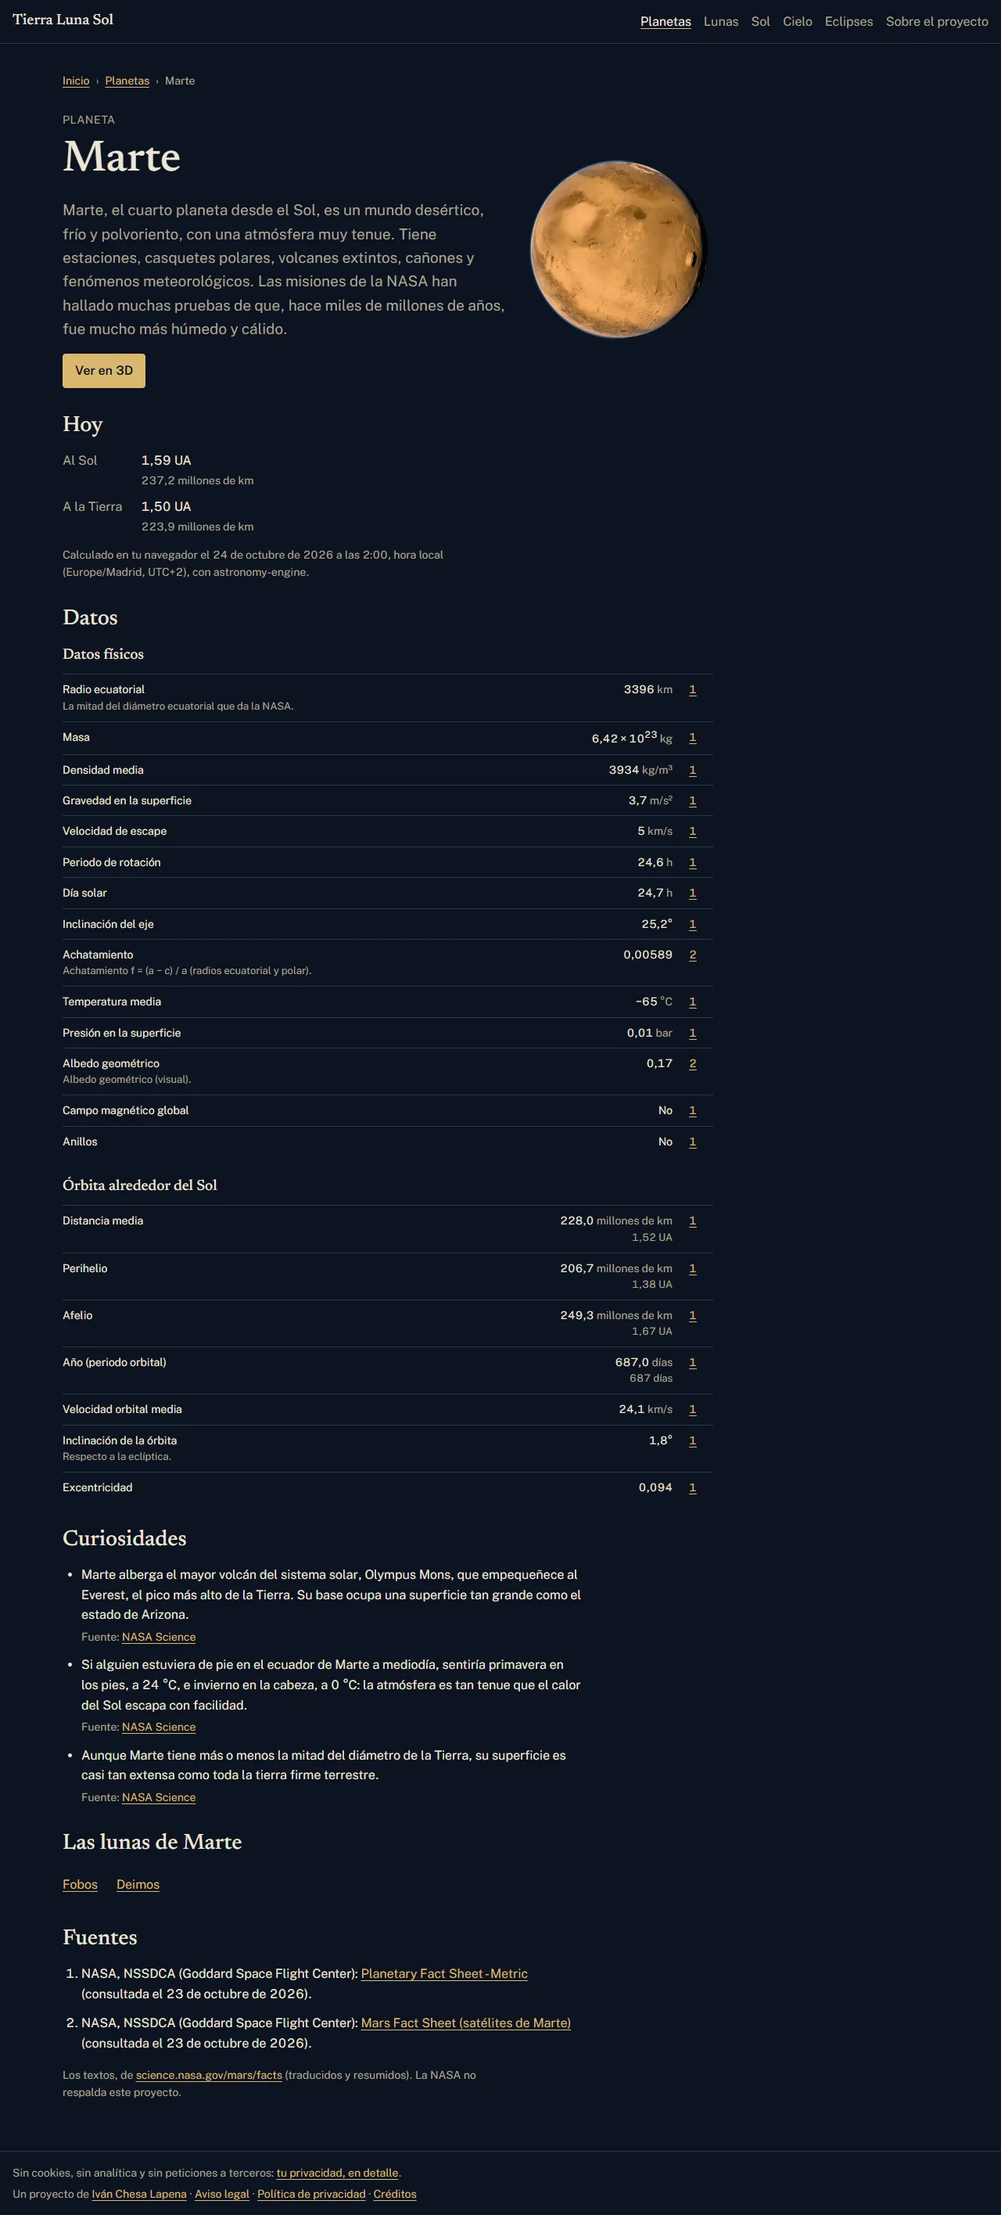
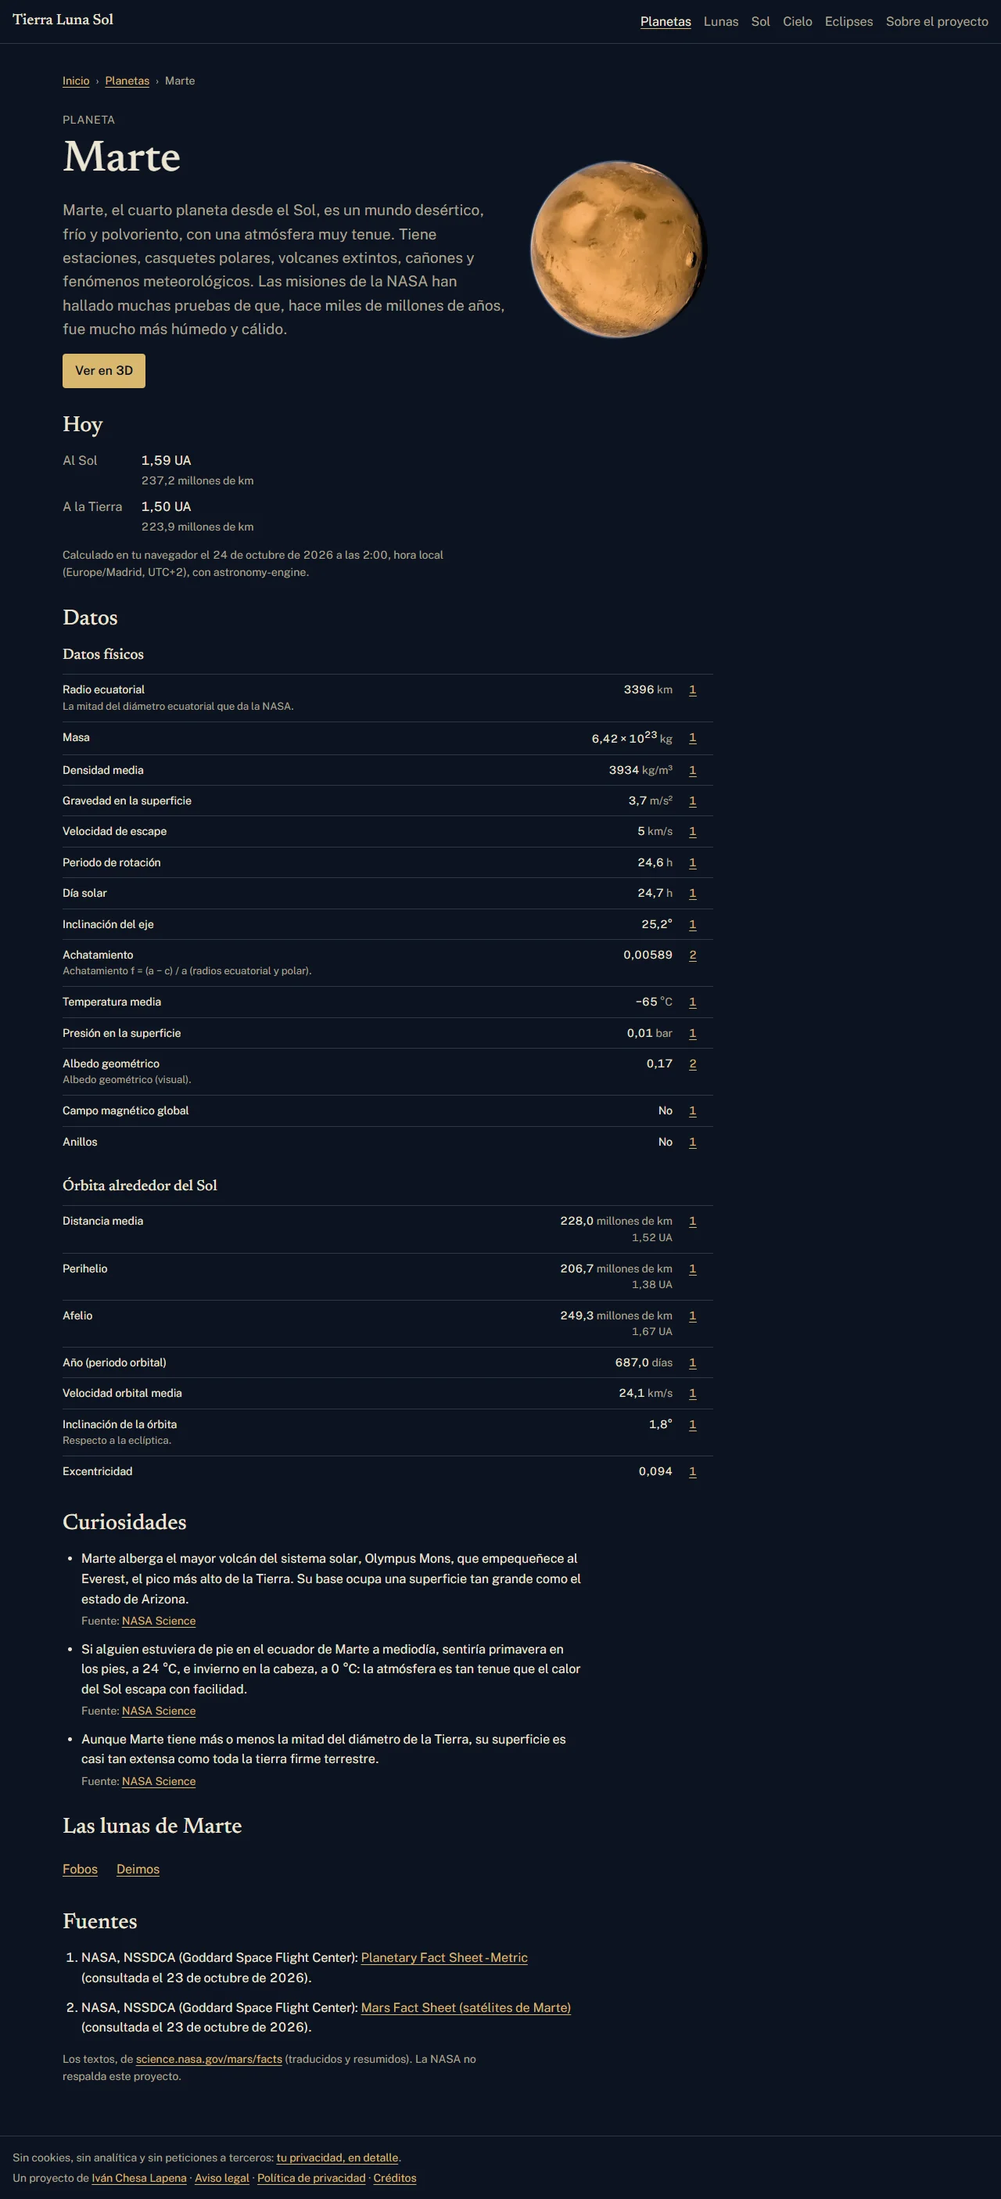
docs: la segunda ronda de la revisión de la fase 9 y su respuesta en el informe; PENDIENTES y las capturas de Marte
- docs/revisiones/fase-9.md, «Segunda ronda» (cambios necesarios, sin bloqueantes: 2 importantes, 1 menor y 1 sugerencia; de la primera ronda, 18 resueltos, 1 en parte y 1 aplazado). La hizo un subagente sin el contexto de la sesión: npm run check, los 103 e2e, measure-pages.mjs con el PC libre (de 97 a 99, CLS 0) y las correcciones, una a una en el navegador.
- «Respuesta a la segunda ronda» en el informe: los hallazgos 21 a 23, hechos; la sugerencia 24 (/luna en el menú y en las migas), para Iván. Sin bloqueantes, no hace falta una tercera ronda. Las cifras al día: 715 tests, 105 e2e, JS inicial de 314,23 kB y código propio inicial de 14,88 kB de 15.
- PENDIENTES: la sugerencia 24, para decidir.
- Las capturas de la ficha de Marte, regeneradas: el año, «687,0 días», sin la cifra repetida debajo.

diff --git a/docs/revisiones/fase-9.md b/docs/revisiones/fase-9.md
@@ -55,3 +55,79 @@ La fase está muy trabajada. Las 30 fichas están prerenderizadas, sin three ni 
 | 18 | Sugerencia | `src/app/core/format.ts:108` · `scripts/build-body-data.mjs` | «Con los decimales de su fuente» no se cumple del todo. Los periodos de 100 días o más salen sin decimales: el año de la Tierra, «365 días», cuando la NASA da 365,2. Los ceros finales se pierden (5,0 → «5 km/s»; 9,0 → «9 m/s²»). En la Luna, la tabla da 384.000 km, 1 km/s y 0 bar (la Planetary Fact Sheet), y su curiosidad dice 384.400 km. Su propia ficha (la fuente 3 de la página) da 0,3844 × 10⁶ km, 1,022 km/s y 3 × 10⁻¹⁵ bar. | Guardar los decimales de la fuente en el dato generado y usarlos en los periodos de las fichas. Tomar la órbita de la Luna de la Moon Fact Sheet (se cambia el origen y se regenera). |
 | 19 | Sugerencia | `src/app/pages/body-detail/today-text.ts` (`distanceCells`) | En «Hoy», la distancia de una luna a su planeta sale como «1,3 millones de km», y en la tabla de la misma ficha, «1.221.870 km». Con un decimal no se ve cómo varía (Titán va de 1,19 a 1,26 millones). | Las lunas, en km enteros, como en la tabla y en el índice del explorador (la excepción de ESTILO §3). |
 | 20 | Sugerencia | `docs/informes/fase-9.md` §6 | El TBT sale casi entero de una tarea de unos 230 ms con la CPU ×4, la evaluación del bundle y la hidratación. Es lo que deja a Marte en el 95 justo. | Para la fase 10: hidratación incremental (`@defer (hydrate on viewport)`) en las secciones de la ficha que quedan bajo el pliegue, para ganar margen. |
+
+## Segunda ronda
+Veredicto: CAMBIOS NECESARIOS
+
+Las correcciones están bien hechas y las he comprobado una a una en el navegador. Las 386 notas de las fichas bajan a su fuente sin salir de la página, con JavaScript y sin él, y `check-links.mjs` ya resuelve contra `<base href>` (con un ancla suelta, falla). La description sigue a la ficha reutilizada, también al volver atrás. La Luna es «Satélite de la Tierra», y la nota de privacidad está en el pie del explorador y en el menú del móvil. Cambiar el lugar de `/eclipses` ya no sube la página, las lunas van en orden y «Leo» sale una vez. Los textos alternativos, los espacios, las migas y el enlace de la libración están bien. Las métricas, medidas otra vez con el PC libre, dan de 97 a 99 con CLS 0. `npm run check`, los 103 e2e y el CI de la cabeza de la rama, en verde. El menú nuevo funciona en escritorio y en el móvil, con el teclado y con su estado activo. No hay bloqueantes, pero quedan dos importantes. «Saltar al contenido» todavía sale de la página en dos casos: en una URL con consulta, recarga y pierde el estado (`?lugar=`, o el explorador con su cuerpo y su fecha); y al hidratar apunta a la portada durante unos segundos con la red lenta. El menú del móvil, que la fase ha alargado hasta 518 px, no se desplaza: en horizontal o con el zoom al 200 %, los enlaces legales y la nota quedan fuera de la pantalla. Además, un menor en los periodos («88,0 días» con «88 días» debajo) y una sugerencia. Sin bloqueantes, no hace falta otra ronda: con el 21 y el 22 corregidos y `npm run check` en verde, se puede fusionar.
+
+### Verificación
+- **`npm run check`**: salida 0 en 1 min 21 s, sin avisos de presupuesto.
+  - Lint y Prettier, limpios. 713 de 713 tests en 75 ficheros.
+  - Cobertura de `ephemeris/`: 98,9 % de sentencias, 93,85 % de ramas, 100 % de funciones y 99,76 % de líneas.
+  - Build con 40 rutas prerenderizadas. JS inicial: 314,05 kB (305,73 de `main`, 7,86 de estilos y 0,46 de un chunk; 86,79 kB comprimido).
+  - `check-initial-bundle`: ninguna página lleva three, astronomy-engine, los stores ni los controles; código propio inicial, 14,70 kB de 15.
+  - `check-links`: 1161 internos bien. Todo coincide con el informe.
+- **e2e** (`npx playwright test`, sobre ese build): **103 de 103** en 5,2 min, con 4 workers. Ningún fallo ni ninguna repetición.
+- **CI**: la ejecución de `d7eed9a`, la cabeza de la rama, está en verde (41722921892, 22 min). La de `a784c22` se canceló al llegar el push siguiente.
+- **`measure-pages.mjs`**, con el PC libre: solo Spotify, del 10 al 20 % de uno de los 8 núcleos; ninguna otra sesión ni ningún `node` o `python`. Dos pasadas:
+  - las nueve páginas: de **97 a 99** de nota estimada, con un TBT de 135 a 187 ms, una tarea más larga de 152 a 192 ms, FCP = LCP de 0,93 a 1,06 s, CLS 0, 0 errores de consola e imágenes bien;
+  - la segunda, en las cuatro más bajas (`/lunas`, Marte, `/luna` y `/planetas`): de 98 a 99, con un TBT de 123 a 150 ms.
+  - Coincide con el 99 del informe dentro del ruido. Marte da 98 y 99: ya no está en el límite del 95. La tarea larga sigue siendo la hidratación (hallazgo 20).
+- **Enlaces externos** (`check-links.mjs --externos`): los 108 responden, salvo los 3 de ivanchesa.com (ENOTFOUND), que son el pendiente conocido.
+- **`check-links` y las anclas sueltas**: en una copia del build, con `href="#fuente-1"` en Marte y `#contenido` en `/lunas`, falla con «lleva a /, no a un ancla de esta página». La respuesta al hallazgo 1 es cierta. En el build, las 386 notas de las 30 fichas llevan la ruta de su propia ficha.
+- **`body-data.ts`**: lo he regenerado con `build-body-data.mjs` y las fichas guardadas, en una copia temporal, y sale idéntico salvo la fecha de la cabecera. Las cifras nuevas de la Luna están en `assets-src/facts/nssdc-moon.html`: 0,3844 × 10⁶ km, 0,3633 y 0,4055, 27,3217 días, 1,022 km/s, 3 × 10⁻¹⁵ bar «(night)» y «roughly ranges from 357,000 km to 407,000 km».
+- **En el navegador** (mis scripts de Playwright sobre `serve-dist.mjs 4393`; SwiftShader para el lienzo):
+  - **Las notas y el salto**: la nota 1 de Marte lleva a `/planetas/marte#fuente-1` sin petición de documento, con `#fuente-1` a la vista, con JS y sin él. «Saltar al contenido» es lo primero con Tab, con su anillo de foco de 2 px. Intro lo deja en la ficha, con el foco en `main#contenido`, y el Tab siguiente va a «Inicio». Sin JS, en `/sobre-el-proyecto`, también funciona. Después de navegar en el cliente, el enlace dice `/planetas/saturno#contenido`. Pero con consulta y al hidratar, no: hallazgo 21.
+  - **`/luna`** dice «Satélite de la Tierra» (en mayúsculas por CSS), y «la Tierra» enlaza a `/planetas/tierra`.
+  - **De Fobos a Deimos**, con la ficha reutilizada: el título, la description, `og:description` y `og:url` son los de Deimos. Al volver atrás, los de Fobos, y adelante, otra vez Deimos. Al ir de una ficha al explorador, la description del sitio.
+  - **`/eclipses`**: con `scrollY` en 200, cambiar al Teide y volver al Montsec la deja en 200. Una página nueva empieza en 0, al volver atrás se recupera la posición, y la nota del pie deja `#privacidad` arriba.
+  - **El orden de las lunas**, en `/lunas` y en las familias de las fichas: Proteo antes que Tritón; de Mimas a Jápeto; de Miranda a Oberón.
+  - **El cielo**: a las 04:30 UTC del 2 de noviembre y con «Mirar a Júpiter», «Leo» sale una vez, al lado de «León Menor / Leo Minor» y «Cáncer / Cancer». A las 21:00 UTC, ninguna etiqueta repetida.
+  - **Los 30 textos alternativos**, como ESTILO.
+  - **Las cifras**: en las 30 fichas, ninguna con dos espacios ni con un espacio normal ante su unidad.
+  - **Las migas**: el texto de las tres, a la misma altura (de 95 a 111 px).
+  - **«Sobre el proyecto»**: la fila de la libración enlaza a «Revisión de la fase 2», que tiene el 0,005°. Ya no dice «Render», «lint» ni «librerías».
+  - **«Hoy»**: ninguna región viva en `main`. Titán, «A Saturno 1.229.277 km».
+  - 0 errores de consola.
+  - **El menú nuevo**:
+    - En escritorio: Planetas · Lunas · Sol · Cielo · Eclipses · Sobre el proyecto, en una línea a 1024, 1100 y 1280 px (cabecera de 56 px). «Cielo» lleva `aria-current="page"` y el subrayado en `/cielo` y en `/cielo?lugar=teide`, «Lunas» en `/lunas/titan` y «Sol» en `/sol`. En `/luna` no se marca nada (sugerencia 24). El orden del foco: salto, nombre del sitio, los seis enlaces y las migas; los del móvil no reciben foco. Intro en «Cielo» lleva al cielo.
+    - En el móvil (Pixel 7): los seis, «Créditos», los dos legales, el autor y la nota, con «Cielo» marcado en `/cielo`. Con el teclado: Tab hasta «Menú», Intro lo abre, Tab recorre los once enlaces y Esc lo cierra. Pulsar «tu privacidad» lleva a la sección y cierra el menú.
+    - En `/lunas`, la Luna, la primera y destacada: toda la tarjeta lleva a `/luna` (un clic en el resumen), el anillo de foco la rodea entera, y los títulos van H1 › H2 «Luna» › H2 por planeta › H3.
+    - El pie del explorador, en escritorio, enseña la nota en las cuatro vistas (`/`, `/explorar/tierra`, `/explorar/luna` y `/cielo`), en el color del acento y subrayada, con su enlace a `#privacidad`.
+- **Capturas**: he mirado las 17 regeneradas en `a784c22`, a su tamaño real y por tramos.
+  - Salen el menú nuevo con su estado activo, la Luna destacada en `/lunas` (escritorio y móvil) y «Satélite de la Tierra» con la órbita de la Moon Fact Sheet. También «3396 km», las migas alineadas, «Revisión de la fase 2» y la nota en el pie del explorador.
+  - Las 5 que no se regeneraron (las cuatro de compartir y la de la Vía Láctea) siguen valiendo: ni enseñan el menú ni han cambiado sus descriptions.
+  - Todo es coherente con `DISENO.md` («Ficha completa» y la cabecera del 03-11).
+
+### Los hallazgos de la primera ronda
+| # | Estado | Comprobación |
+|---|---|---|
+| 1 | Resuelto lo que bloqueaba; queda un resto (21) | **Las notas, resueltas**: las 386 llevan la ruta de su ficha. En el navegador, la nota 1 de Marte se queda en la página con JS y sin él, sin petición de documento. `check-links` resuelve contra `<base href>` y falla con un ancla suelta (comprobado en una copia). El e2e pulsa la nota y el salto. **«Saltar al contenido»**, resuelto en el HTML de las 40 rutas y una vez acabada la primera navegación, con JS y sin él. Pero sigue saliendo de la página con consulta y al hidratar: hallazgo 21. Es importante, no bloqueante, porque el criterio «sin enlaces rotos» se cumple (1161 internos bien y las notas funcionan). |
+| 2 | Resuelto | `kindLineOf` y sus tests. `/luna`: «Satélite de la Tierra», con «la Tierra» enlazada; e2e y captura `escritorio-ficha-luna`. |
+| 3 | Resuelto (con un resto en el 22) | La nota está en el pie del explorador de escritorio, visible en las cuatro vistas, y en el menú del móvil en vertical. e2e en `/` y en el menú. El informe y ESTILO, corregidos. En horizontal o con zoom, el menú no se desplaza y la nota queda fuera: hallazgo 22. |
+| 4 | Resuelto | Resolvers en cada ruta, fuera `describePage`. De Fobos a Deimos, atrás y adelante: el título, la description, `og:description` y `og:url` correctos. e2e. |
+| 5 | Resuelto | El desplazamiento, solo si cambia la ruta o hay fragmento. En `/eclipses` sigue en 200 al cambiar de lugar; una página nueva empieza en 0 y al volver atrás se restaura. e2e. |
+| 6 | Resuelto | `moonsByDistance` en `/lunas` y en las familias: Proteo antes que Tritón. La description de `/lunas`, reescrita. |
+| 7 | Resuelto | Test en `engine.spec.ts` y, en el navegador, «Leo» una vez y la caja de una línea. |
+| 8 | Resuelto | `imageAltOf`, con tests. Los 30, como ESTILO: superficie real, nubes, neblina, continentes o color esquemático. |
+| 9 | Resuelto | Las entradillas de `/planetas` y de `/lunas`, y la sección «3 bis» con los textos fijos: el tipo, las etiquetas y sus aclaraciones, «Hoy», los `alt`, el pie, el pie del explorador y el menú. 360 textos con su «Corrección:». |
+| 10 | Resuelto | 17 capturas regeneradas, con los textos al día. Las 5 restantes no dependen de lo cambiado. |
+| 11 | Resuelto | Los dos criterios, en ⚠, con la fase en la que se medirán. Mi medida: de 97 a 99 en dos pasadas; Marte, 98 y 99. |
+| 12 | Resuelto | Un solo espacio duro en las 30 fichas («3396 km»). |
+| 13 | Resuelto | El texto de las tres migas, a la misma altura (de 95 a 111 px). |
+| 14 | Resuelto | Enlaza a `docs/revisiones/fase-2.md` («Revisión de la fase 2»), donde está el 0,005°. |
+| 15 | Resuelto (documentado; la prueba, en la fase 10) | §4.4 del informe y `PENDIENTES.md`. |
+| 16 | Resuelto | Sin `aria-live` en la ficha: 0 regiones vivas en `main`. |
+| 17 | Resuelto | «Pintado bajo demanda», «el análisis estático del código (ESLint)» y «bibliotecas». |
+| 18 | En parte | Bien: «365,2 días»; los periodos, con la cifra de la fuente al lado; la órbita y la presión de la Luna, de su ficha (comprobadas en el HTML guardado); y sin el ruido de la coma flotante. Los ceros finales, aplazados (propuesta 5): razonable. Pero el detalle nuevo repite la cifra sin su cero: hallazgo 23. |
+| 19 | Resuelto | «A Saturno 1.229.277 km», en km enteros, como en la tabla. |
+| 20 | Aplazado a la fase 10 (propuesta 4) | Razonable: con el PC libre hay margen (de 97 a 99), y la tarea larga sigue siendo la hidratación (de 144 a 192 ms). |
+
+### Hallazgos nuevos
+| # | Severidad | Archivo:línea | Hallazgo | Qué hacer |
+|---|---|---|---|---|
+| 21 | Importante | `src/app/app.ts:39` y `:46` · `src/app/app.spec.ts:19` · `e2e/contenido.spec.ts:53` | «Saltar al contenido» todavía sale de la página en dos casos. **Con consulta**, `skipHref` la quita, y `/cielo#contenido` desde `/cielo?lugar=teide` es otra URL: el navegador carga otro documento. Comprobado con Tab e Intro: en `/eclipses?lugar=teide` y en `/cielo?lugar=teide`, una petición de documento nueva, y el lugar vuelve al Montsec. En `/?cuerpo=saturno&fecha=2026-11-01T21:00Z`, recarga el explorador sin el cuerpo ni la fecha. Pasa en cuanto el explorador escribe su estado en la URL: al elegir un cuerpo, al pausar, al llegar desde «Ver en 3D» (`/?cuerpo=marte`) o con un enlace compartido. **Al hidratar**, el signal empieza en `/#contenido`: Angular lo escribe en el DOM y ahí se queda hasta el primer `NavigationEnd`, que espera al chunk de la página y a los resolvers. Con la red y la CPU del móvil de Lighthouse (en el servidor local, sin compresión), el enlace apunta a la portada en `/planetas/marte` de 2,96 a 7,74 s, en `/lunas` de 3,98 a 5,48 s y en `/cielo` de 3,0 a 4,2 s; sin estrangular, unos 50 ms. A los 3,7 s, con la ficha ya pintada (FCP a 0,98 s), Tab e Intro llevan a `/`: dos documentos, `/planetas/marte` y `/`. Es el síntoma del hallazgo 1, en menos casos. `app.spec.ts` da por bueno el `/#contenido` inicial, y el e2e solo prueba una ruta sin consulta y sin estrangular. | Calcularlo con `Location`, que conoce la URL antes de la primera navegación y también al prerenderizar, y conservar la consulta: `` const skip = () => `${location.prepareExternalUrl(location.path())}#contenido` ``, como valor inicial del signal y en cada `NavigationEnd`. Así, `/cielo?lugar=teide#contenido` es un salto dentro del documento. Un e2e en `/eclipses?lugar=teide`: Tab e Intro, sin petición de documento y con el Teide en el selector. Y en `app.spec.ts`, que el valor inicial ya sea la ruta de la página. Sin JS, el `404.html` de una URL que no existe lleva `/404#contenido`: aceptable. |
+| 22 | Importante | `src/app/app.css:112` | **El menú del móvil no se desplaza y ya no cabe en horizontal.** Abierto, mide 518 px y empieza a 56 (acaba a 574), con `overflow: visible` y sin `max-height`: `scrollHeight` = `clientHeight`, y como es `fixed`, la página tampoco lo mueve. A 915 × 412 (Pixel 7 en horizontal), a 740 × 360 o en un portátil de 1280 × 720 con el zoom al 200 %, los últimos 162 a 214 px quedan fuera de la pantalla: «Aviso legal», «Política de privacidad», el autor y la nota «Sin cookies…». En el explorador del móvil, ese es el único sitio donde están (tarea 6, D24; hallazgo 3). En `main`, el menú tenía seis enlaces y el autor; esta fase le ha añadido «Lunas», los dos legales y la nota. Incumple WCAG 1.4.4 y 1.4.10 (AA). | En `.site-nav:popover-open`, `max-height: calc(100dvh - 3.5rem - var(--space-2))`, `overflow-y: auto` y `overscroll-behavior: contain`. Un e2e a 915 × 412: abrir el menú, llegar a «tu privacidad» y pulsarla. |
+| 23 | Menor | `src/app/pages/body-detail/body-facts.ts:126` | `periodCells` decide el detalle comparando textos. Si la cifra de la fuente acaba en cero, `formatExact` se lo quita, y el detalle sale aunque sea la misma cifra. En Mercurio, «Año (periodo orbital) 88,0 días», con «88 días» debajo. En Marte, «687,0 días» con «687 días», y en el día solar de la Tierra, «24,0 h» con «24 h». Se lee como si la NASA diera otra cifra, con menos decimales que la de arriba. ESTILO pide la cifra de la fuente debajo solo «si la fuente da otra cifra». | Si la unidad que se ve es la de la fuente y la cifra coincide con la suya redondeada a un decimal, sin detalle. Un test con Mercurio y con el día solar de la Tierra. La propuesta 5, con los decimales de la fuente, lo resolvería del todo. |
+| 24 | Sugerencia | `src/app/pages/body-detail/body-detail-page.ts:57` · `src/app/app.ts:26` | Con el menú nuevo, en `/luna` no se marca ningún enlace del menú, y las migas dicen «Inicio › Luna». Pero ahora la Luna se presenta como la primera de `/lunas`. | Las migas, «Inicio › Lunas › Luna», y «Lunas» marcado también en `/luna`. La URL no cambia. Lo decide Iván, porque el plan dice que `/luna` «no cambia». |

diff --git a/docs/PENDIENTES.md b/docs/PENDIENTES.md
@@ -108,6 +108,7 @@ Decisiones y tareas que dependen de Iván. Claude Code añade aquí cada `TODO(i
 - [ ] **Lighthouse**: no se ha ejecutado. Sus métricas, medidas con `scripts/measure-pages.mjs` en las condiciones de su móvil y con el PC sin otras tareas: 99 de nota estimada en las nueve páginas de la muestra (las cinco fichas, los índices, los créditos y «Sobre el proyecto»), con CLS 0. La definitiva, en la fase 10 (Lighthouse en el CI: `@lhci/cli`, abajo) y en producción, en la fase 11.
 - [ ] (Fase 10) **La fuente en un móvil real**: con `font-display: optional`, en una primera visita con la red lenta el texto se queda en la fuente de reserva toda la visita (revisión de la fase 9, hallazgo 15): mirar si Public Sans llega a tiempo y, si no, valorar `swap` con `ascent-override`, `descent-override` y `line-gap-override`. Y las de reserva del mismo ancho son Arial y Georgia, que Android no tiene: medir allí el desplazamiento al cargar (en tu móvil).
 - [ ] (Opcional) **«Sobre el proyecto» no cuenta cómo se ha hecho** (con Claude Code, en fases y con revisiones): si quieres que lo diga, dímelo y lo escribo para que lo revises.
+- [ ] (Para decidir) **`/luna` en el menú y en las migas** (segunda ronda de la revisión de la fase 9, sugerencia 24): con el menú nuevo, la Luna es la primera de `/lunas`, pero en `/luna` no se marca ningún enlace del menú y las migas dicen «Inicio › Luna». La propuesta: «Inicio › Lunas › Luna» y «Lunas» marcado también en `/luna`, con la misma URL. El plan dice que `/luna` «no cambia», así que lo decides tú.
 
 ## Decisiones del 03-11 (durante la fase 9)
 - [x] Las constelaciones en español con el latín como secundario (D38) y el cielo en tiempo real (D33): arriba, en «Bloque E (fase 8)», y en el plan.
